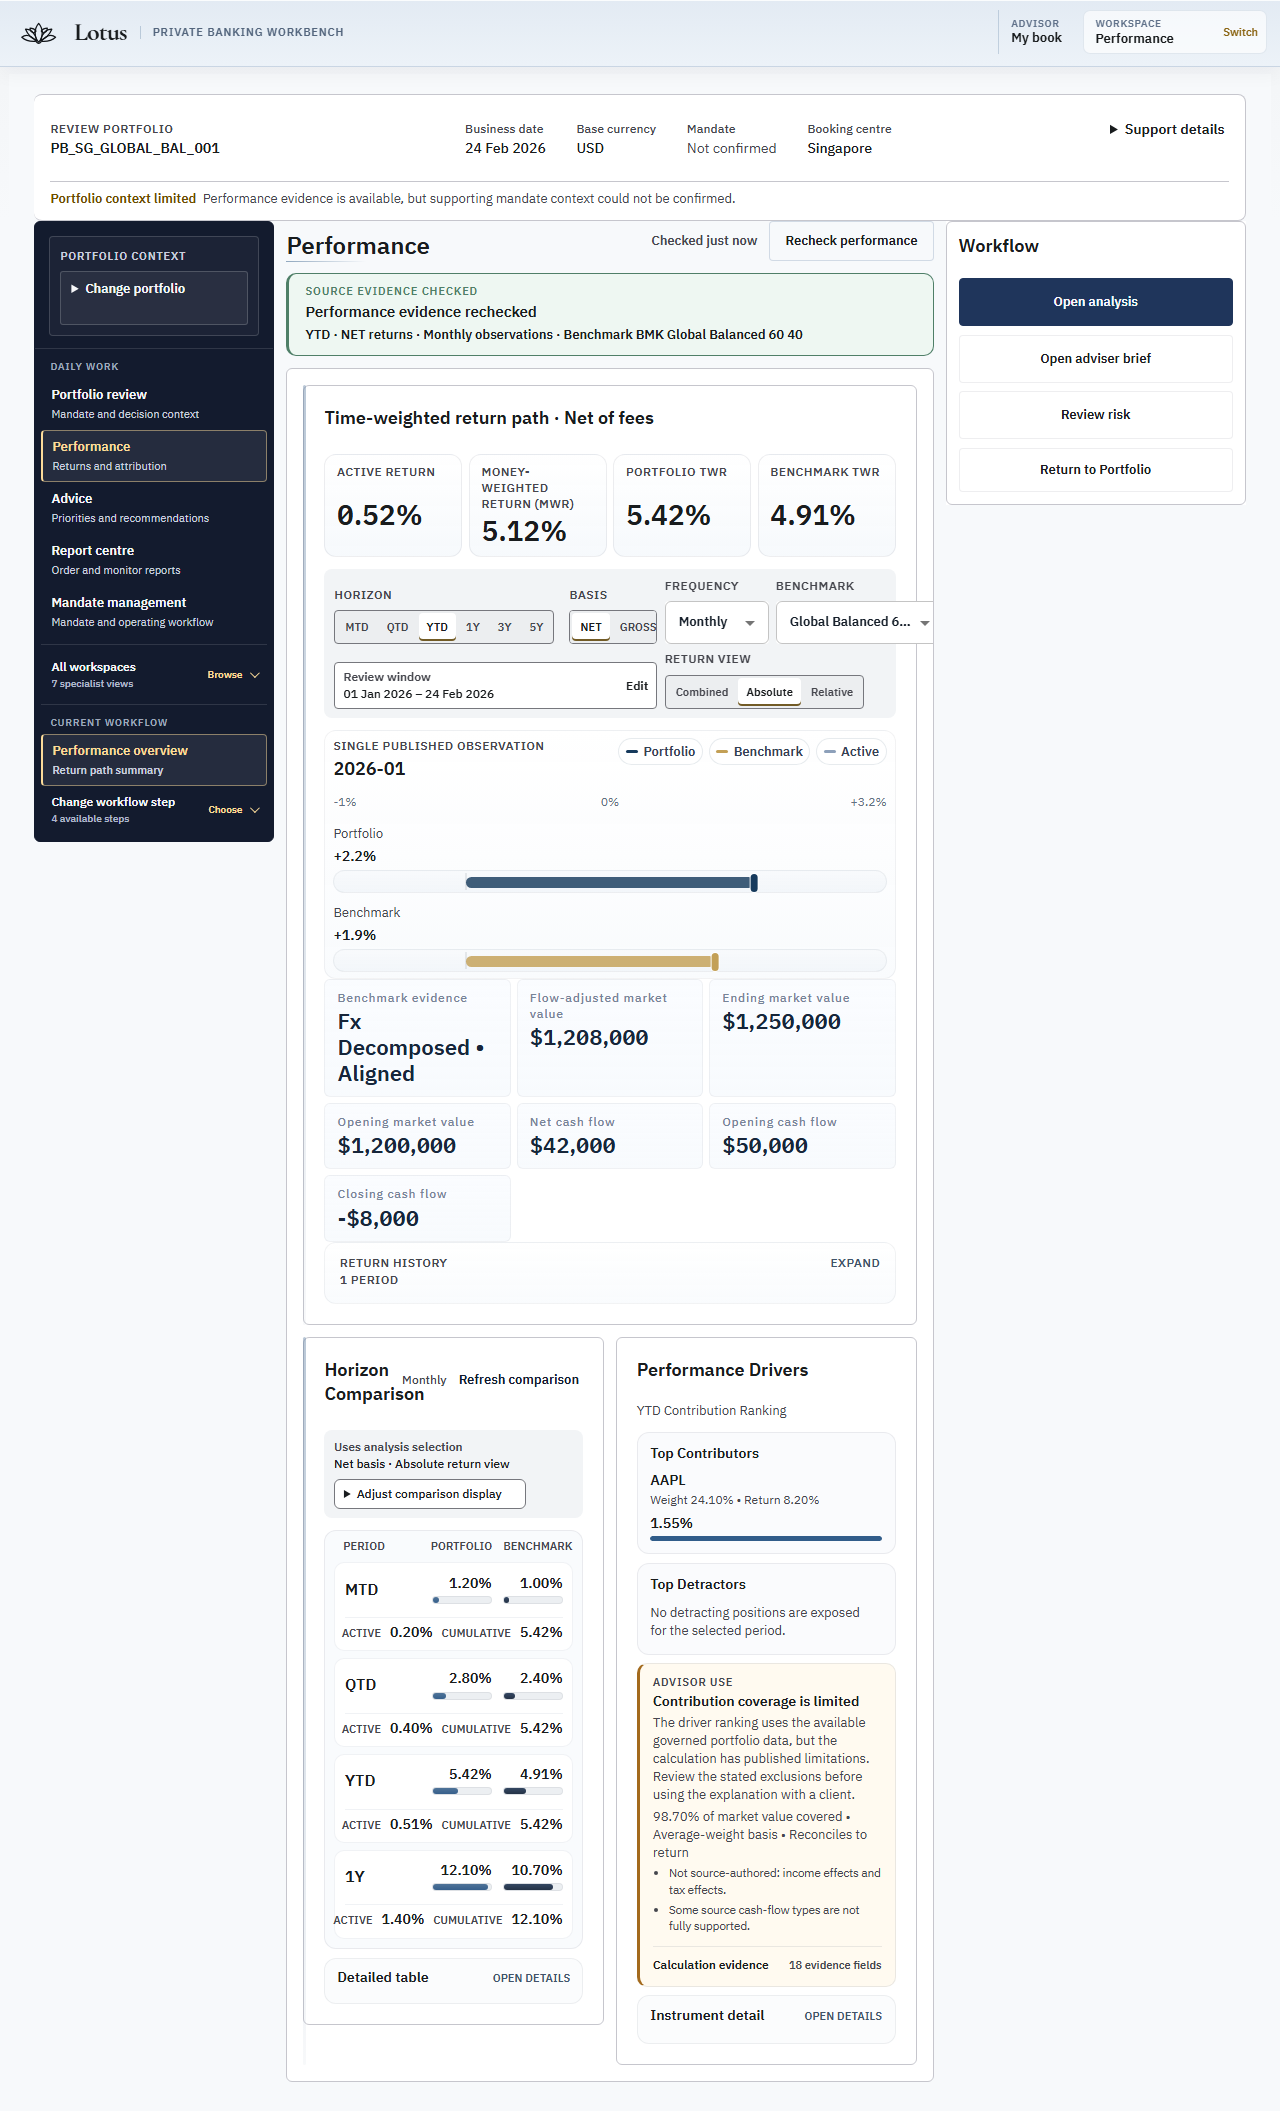
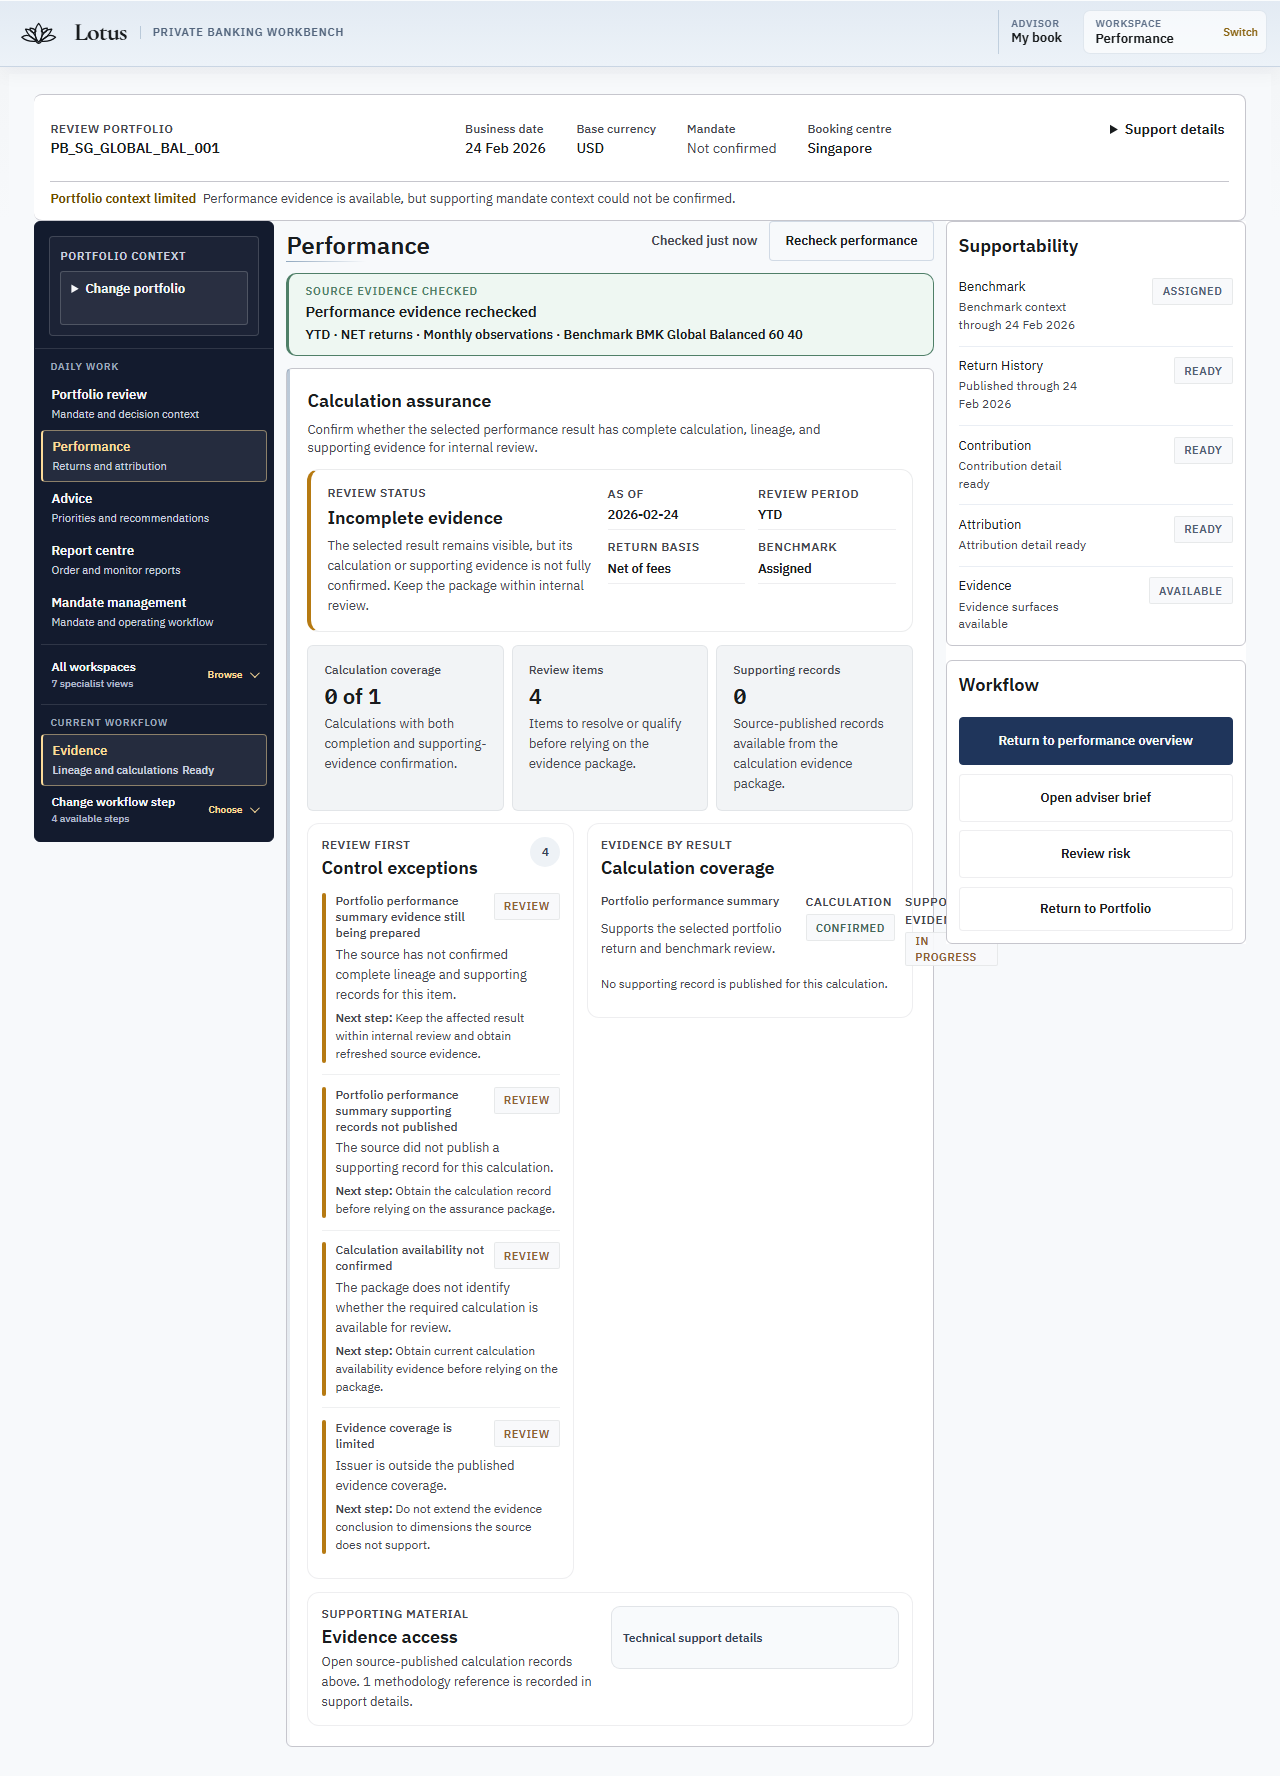
fix(performance): clear mode-local recheck outcomes

diff --git a/tests/unit/performance-workspace-client.test.tsx b/tests/unit/performance-workspace-client.test.tsx
@@ -383,7 +383,7 @@ describe("PerformanceWorkspaceClient", () => {
     getSummaryClientMock.mockReturnValueOnce(summaryRequest);
     getDetailsClientMock.mockResolvedValueOnce(initialDetails);
 
-    render(
+    const result = render(
       <PerformanceWorkspaceClient
         {...buildDefaultClientProps(initialSummary, initialDetails)}
         initialMode="evidence"
@@ -392,7 +392,12 @@ describe("PerformanceWorkspaceClient", () => {
 
     screen.getByRole("button", { name: "Recheck performance" }).click();
     await waitFor(() => expect(getSummaryClientMock).toHaveBeenCalledTimes(1));
-    await act(async () => screen.getByRole("button", { name: "Switch Risk Mode" }).click());
+    result.rerender(
+      <PerformanceWorkspaceClient
+        {...buildDefaultClientProps(initialSummary, initialDetails)}
+        initialMode="risk"
+      />,
+    );
     await waitFor(() => expect(screen.getByTestId("mode")).toHaveTextContent("risk"));
     expect(screen.getByTestId("source-checked-at")).toHaveTextContent("unavailable");
     expect(screen.getByTestId("refresh-kind")).toHaveTextContent("none");
@@ -403,6 +408,31 @@ describe("PerformanceWorkspaceClient", () => {
     await waitFor(() => expect(screen.getByTestId("refresh-kind")).toHaveTextContent("none"));
     expect(getDetailsClientMock).toHaveBeenCalledTimes(1);
     expect(screen.getByTestId("source-checked-at")).toHaveTextContent("unavailable");
+  });
+
+  it("clears a failed Evidence recheck and its retry when the adviser changes mode", async () => {
+    getSummaryClientMock.mockRejectedValueOnce({ status: 502 });
+
+    render(
+      <PerformanceWorkspaceClient
+        {...buildDefaultClientProps()}
+        initialMode="evidence"
+      />,
+    );
+
+    screen.getByRole("button", { name: "Recheck performance" }).click();
+    await waitFor(() => expect(screen.getByTestId("refresh-kind")).toHaveTextContent("failed"));
+
+    await act(async () => screen.getByRole("button", { name: "Switch Risk Mode" }).click());
+    await waitFor(() => {
+      expect(screen.getByTestId("mode")).toHaveTextContent("risk");
+      expect(screen.getByTestId("refresh-kind")).toHaveTextContent("none");
+      expect(screen.getByTestId("updating")).toHaveTextContent("false");
+    });
+
+    screen.getByRole("button", { name: "Retry Selection" }).click();
+    expect(getSummaryClientMock).toHaveBeenCalledTimes(1);
+    expect(getDetailsClientMock).not.toHaveBeenCalled();
   });
 
   it("revokes retained evidence when an obsolete recheck completes with a permission denial", async () => {

diff --git a/src/apps/performance/components/performance-workspace-client.tsx b/src/apps/performance/components/performance-workspace-client.tsx
@@ -211,6 +211,15 @@ export default function PerformanceWorkspaceClient({
     ? buildControlQueryIdentity(controls)
     : null;
   const queryClient = useQueryClient();
+  const clearModeLocalRecheckState = useCallback(() => {
+    setPendingRefresh((currentRefresh) =>
+      currentRefresh?.intent === "recheck" ? null : currentRefresh,
+    );
+    setRefreshFailure((currentFailure) =>
+      currentFailure?.intent === "recheck" ? null : currentFailure,
+    );
+    setRefreshConfirmation(null);
+  }, []);
   const controlsMatchServerPreload = Boolean(
     initialDataAdmissionEnabledRef.current &&
     controls &&
@@ -323,10 +332,10 @@ export default function PerformanceWorkspaceClient({
     if (modeRef.current === initialMode) {
       return;
     }
+    clearModeLocalRecheckState();
     modeRef.current = initialMode;
     setMode(initialMode);
-    setRefreshConfirmation(null);
-  }, [initialMode]);
+  }, [clearModeLocalRecheckState, initialMode]);
 
   const workspace = useMemo<WorkbenchPerformanceWorkspace | null>(() => {
     if (!currentSummary) {
@@ -945,10 +954,7 @@ export default function PerformanceWorkspaceClient({
       chartFrequency={controls?.chartFrequency ?? initialChartFrequency}
       benchmark={controls?.benchmark}
       onModeChange={(nextMode) => {
-        setRefreshConfirmation(null);
-        setPendingRefresh((currentRefresh) =>
-          currentRefresh?.intent === "recheck" ? null : currentRefresh,
-        );
+        clearModeLocalRecheckState();
         modeRef.current = nextMode;
         setMode(nextMode);
         if (!controls) {

diff --git a/wiki/Performance-Summary-Screen-Guide.md b/wiki/Performance-Summary-Screen-Guide.md
@@ -155,10 +155,10 @@ or moving focus away from the active rail or source control.
   those confirmed controls without another server navigation or a rejected Back-history entry.
 - Withholds that receipt and action in Summary, Analysis, Risk Review, and Adviser Brief because
   their visible horizon, attribution, risk, or narrative evidence includes independent queries;
-  Workbench does not imply those facts were rechecked by the Performance pair. Its pending state and
-  completion are discarded if the adviser changes mode before it settles, so another mode never
-  inherits its lock or confirmation. A permission denial still revokes retained evidence regardless
-  of that mode fence.
+  Workbench does not imply those facts were rechecked by the Performance pair. Its pending or failed
+  state and completion are discarded when the adviser changes mode through the rail or browser
+  history, so another mode never inherits its lock, retry, or confirmation. A permission denial
+  still revokes retained evidence regardless of that mode fence.
 - Uses browser-history `push` for confirmed advisor mode and source-control decisions, reserves
   `replace` for source normalization, and synchronizes Back and Forward into the mounted client
   without discarding keyboard focus or accepting an obsolete request.

diff --git a/docs/product/WORKBENCH-EXPERIENCE-RESEARCH-LEDGER.md b/docs/product/WORKBENCH-EXPERIENCE-RESEARCH-LEDGER.md
@@ -8029,9 +8029,9 @@ refresh authority?
    summary and detail atomically only after both still match the active review context.
 4. Keep the prior admitted receipt and analytics when an ordinary recheck fails. Announce success
    only after both reads succeed; preserve the existing permission-blocked and late-result fences,
-   including clearing its pending presentation and withholding completion after the adviser changes
-   to a different mode. A permission denial still revokes retained evidence even when its
-   mode-specific completion is obsolete.
+   including clearing its pending or failed presentation and withholding completion after the
+   adviser changes to a different mode through the rail or browser history. A permission denial
+   still revokes retained evidence even when its mode-specific completion is obsolete.
 5. Keep the shared 30-second stale policy for ordinary navigation and avoid a same-route server
    navigation after explicit recheck, which would duplicate the two source reads. When the source
    normalizes an unsupported control, replace the current query-only history entry with the exact
